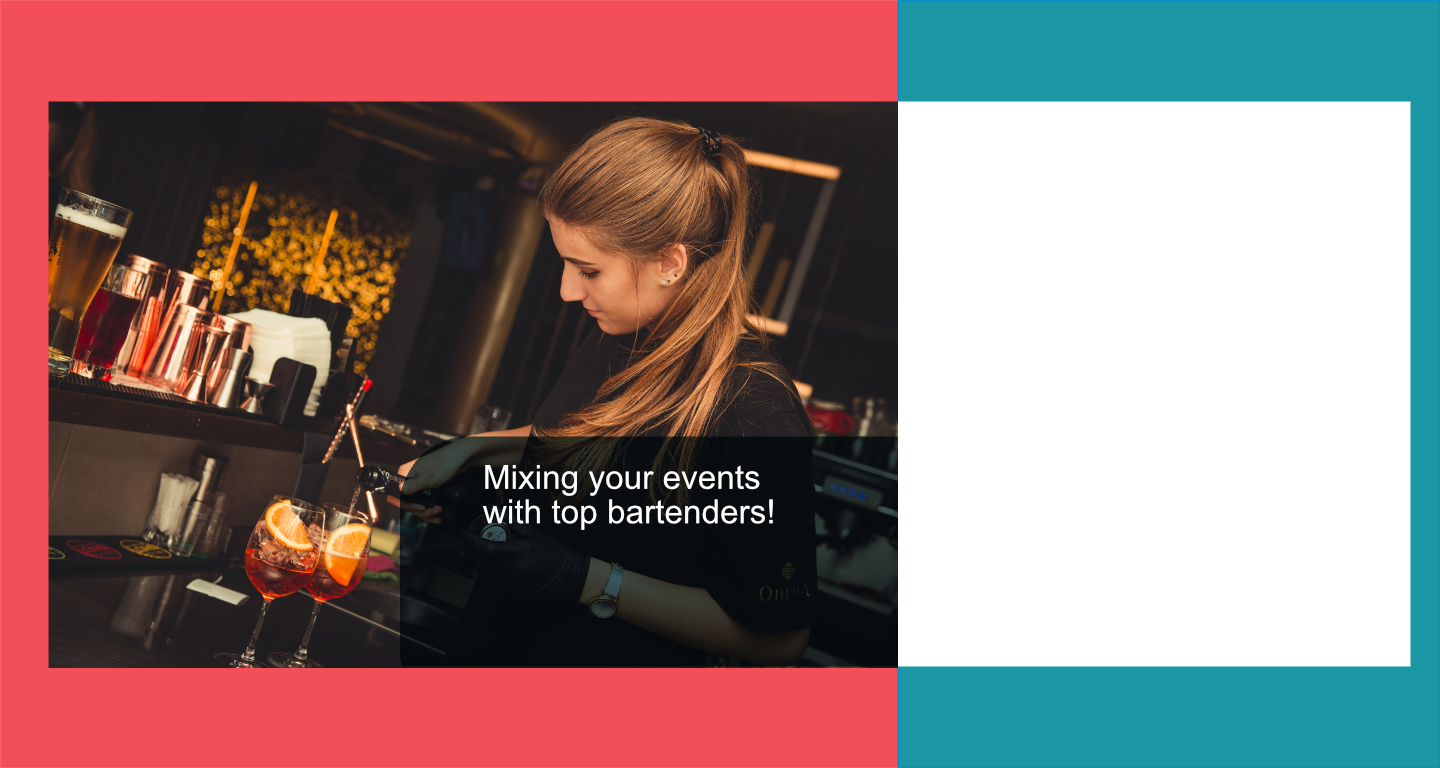
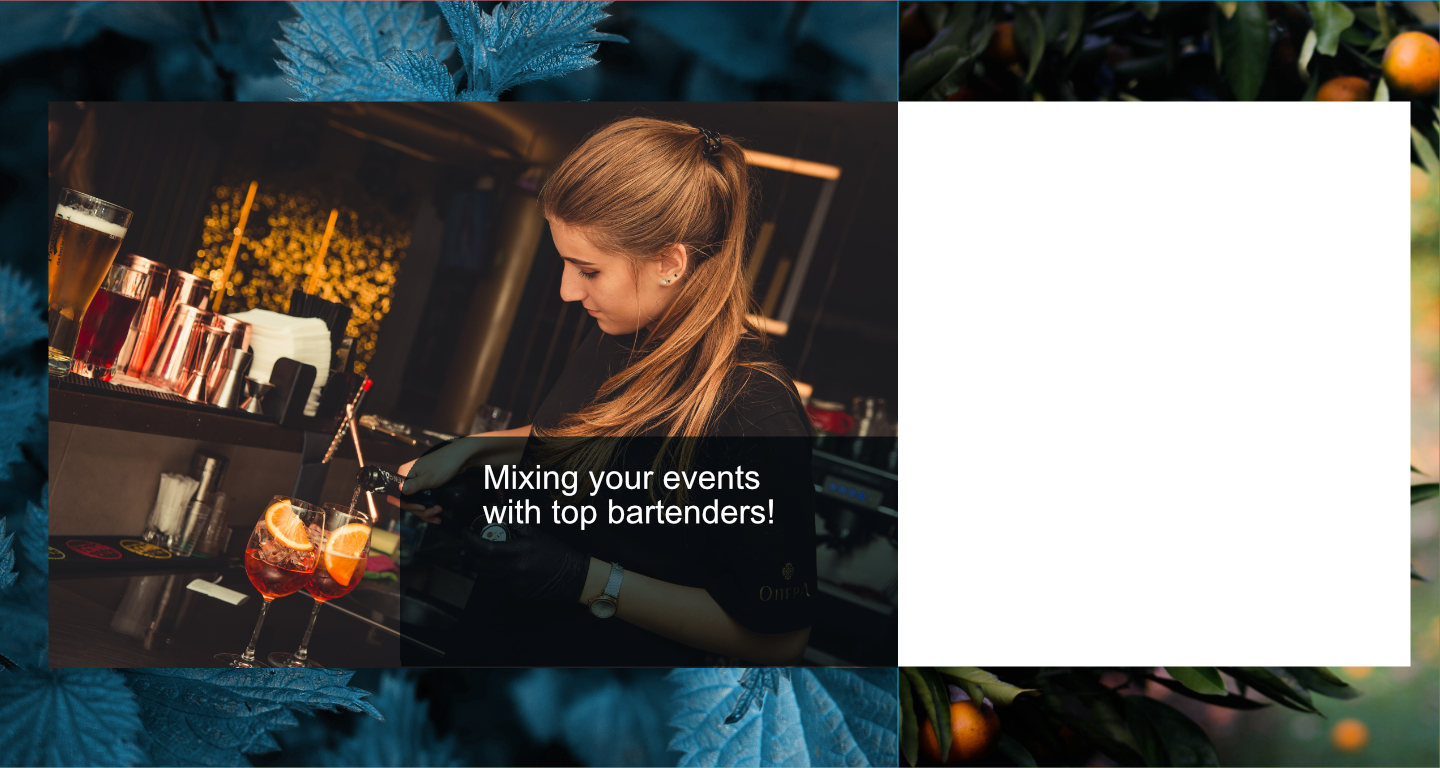
fixed filter

diff --git a/src/main/resources/templates/users/clientProfile.html b/src/main/resources/templates/users/clientProfile.html
@@ -10,26 +10,47 @@
 <div th:unless="${#authorization.expression('isAuthenticated()')}">
     <th:block th:replace="fragments/navbar :: top-nav" />
 </div>
+<div uk-grid="">
+    <div class="cpleftside uk-width-1-2">
+        <img class="profilePhoto" th:src="${user.photoUrl}"/>
+        <h3><span th:text="${user.name}"></span></h3>
+    </div>
+        <div class="cp2rightside uk-width-1-2">
+        </div>
+</div>
 
 
-<th:block>
-    <img class="profilePhoto" th:src="${user.photoUrl}"/>
-    <h3>Company: <span th:text="${user.company}"></span></h3>
-    <h3>Contact Name: <span th:text="${user.name}"></span></h3>
-    <h3>Contact Email: <span th:text="${user.email}"></span></h3>
-</th:block>
-<a th:href="@{'/client/profile/'+ ${#authentication.principal.id} +'/edit'}">Edit Profile</a>
-<th:block th:each="event : ${events}">
-    <p><span th:text="${event.title}"></span></p>
 
-    <p>Start time: <span th:text="${#calendars.format(event.startTime, 'MMMM dd, yyyy - hh:mm a')}"></span></p>
-    <p>End time: <span th:text="${#calendars.format(event.startTime, 'MMMM dd, yyyy - hh:mm a')}"></span></p>
-    <p>Event location: <span th:text="${event.address}"></span></p>
-    <p>Bartenders Needed: <span th:text="${event.bartendersNeeded}"></span></p>
-    <p>Description: <span th:text="${event.description}"></span></p>
-    <a th:href="@{/events/{id}/edit(id=${event.id})}" class="uk-button-primary">Edit</a>
-    <form th:action="@{/events/{id}/delete(id=${event.id})}" th:method="POST"><button class="uk-button-danger">Delete</button></form>
-</th:block>
+<div uk-grid="" style="border-color:lightblue">
+    <div class="cp2leftside uk-width-1-4">
+        <h3>Company: <span th:text="${user.company}"></span></h3>
+        <h3>Contact Email: <span th:text="${user.email}"></span></h3>
+        <a th:href="@{'/client/profile/'+ ${#authentication.principal.id} +'/edit'}">Edit Profile</a>
+    </div>
+
+    <div class="cp2center uk-width-1-2" style="background-color: darkblue;">
+        <h3>Created Events</h3>
+        <th:block th:each="event : ${events}">
+            <div class="uk-card uk-card-hover">
+            <p><span th:text="${event.title}"></span></p>
+
+            <p>Start time: <span th:text="${#calendars.format(event.startTime, 'MMMM dd, yyyy - hh:mm a')}"></span></p>
+            <p>End time: <span th:text="${#calendars.format(event.startTime, 'MMMM dd, yyyy - hh:mm a')}"></span></p>
+            <p>Event location: <span th:text="${event.address}"></span></p>
+            <p>Bartenders Needed: <span th:text="${event.bartendersNeeded}"></span></p>
+            <p>Description: <span th:text="${event.description}"></span></p>
+            <a th:href="@{/events/{id}/edit(id=${event.id})}" class="uk-button-primary">Edit</a>
+            <form th:action="@{/events/{id}/delete(id=${event.id})}" th:method="POST"><button class="uk-button-danger">Delete</button></form>
+            </div>
+            <br/>
+            <hr/>
+            <br/>
+        </th:block>
+    </div>
+    <div class="cp2rightside uk-width-1-4">
+    </div>
+</div>
+
 <th:block th:replace="fragments/footer :: myfooter"/>
 </body>
 </html>

diff --git a/src/main/resources/templates/events/eventRegistration.html b/src/main/resources/templates/events/eventRegistration.html
@@ -40,7 +40,44 @@
         <br/>
         <input type="submit" value="Create Event" />
     </form>
+<!--<form>-->
+<!--    <fieldset class="uk-fieldset">-->
 
+<!--        <legend class="uk-legend">Create an Event</legend>-->
+
+<!--        <div class="uk-margin">-->
+<!--        <label for="title">Event Title</label>-->
+<!--        <input type="text" id="title" th:field="*{title}" />-->
+<!--        </div>-->
+
+<!--        <div class="uk-margin">-->
+<!--        <label for="date">Date</label>-->
+<!--        <input type="date" id="date" th:field="*{date}" />-->
+<!--        </div>-->
+
+<!--        <div class="uk-margin">-->
+<!--        <label for="start-time">Start Time</label>-->
+<!--        <input type="time" id="start-time" th:field="*{startTime}" />-->
+<!--        </div>-->
+
+<!--        <div class="uk-margin">-->
+<!--        <label for="endTime">End Time</label>-->
+<!--        <input type="time" id="endTime" th:field="*{endTime}" />-->
+<!--        </div>-->
+
+<!--        <div class="uk-margin">-->
+<!--            <label for="bartendersNeeded">Number of Bartenders Needed</label>-->
+<!--            <input type="number" min="1" max="10" id="bartendersNeeded" th:field="*{bartendersNeeded}" />-->
+<!--        </div>-->
+
+<!--        <div class="uk-margin">-->
+<!--            <label for="description">Event Description</label>-->
+<!--            <input type="text" id="description" th:field="*{description}" />-->
+<!--        </div>-->
+
+
+<!--    </fieldset>-->
+<!--</form>-->
 <script src='https://api.tiles.mapbox.com/mapbox-gl-js/v1.1.0/mapbox-gl.js'></script>
 <script src='https://api.mapbox.com/mapbox-gl-js/plugins/mapbox-gl-geocoder/v4.4.1/mapbox-gl-geocoder.min.js'></script>
 <script src="https://code.jquery.com/jquery-3.4.1.slim.js" integrity="sha256-BTlTdQO9/fascB1drekrDVkaKd9PkwBymMlHOiG+qLI=" crossorigin="anonymous"></script>

diff --git a/src/main/resources/templates/events/index.html b/src/main/resources/templates/events/index.html
@@ -15,12 +15,13 @@
 <div uk-filter="target: .js-filter">
 
     <ul class="uk-subnav uk-subnav-pill">
-        <li class="uk-active" uk-filter-control="sort: data-number"><a href="#">Ascending</a></li>
-        <li uk-filter-control="sort: data-number; order: desc"><a href="#">Descending</a></li>
+        <li class="uk-active" uk-filter-control="sort: data-date"><a href="#">Ascending</a></li>
+        <li uk-filter-control="sort: data-date; order: desc"><a href="#">Descending</a></li>
     </ul>
 
-    <ul class="js-filter uk-child-width-1-2 uk-child-width-1-3@m uk-text-center" uk-grid="" th:each="event : ${events}">
-        <li data-date="${#calendars.format(event.startTime, 'MM dd, yyyy - hh:mm a')}">
+    <ul class="js-filter uk-child-width-1-2 uk-child-width-1-3@m uk-text-center" uk-grid="">
+        <th:block th:each="event : ${events}">
+        <li data-th-attr="data-date=${#calendars.format(event.date, 'MM-dd-yyyy')}">
             <div class="uk-card uk-card-default uk-card-body">
                 <p><span th:text="${#calendars.format(event.date, 'MM / dd')}"></span></p>
                 <p><span th:text="${#calendars.format(event.startTime, 'h:mm a')}"></span></p>
@@ -29,11 +30,13 @@
                 <button th:if="${#authentication.principal.isClient} == ${'1'}" th:type="submit" id="gigRequest">Request This Gig</button>
             </div>
         </li>
+        </th:block>
     </ul>
 </div>
 
 
 
 <th:block th:replace="fragments/footer :: myfooter"/>
+
 </body>
 </html>

diff --git a/src/main/resources/templates/fragments/navbar.html b/src/main/resources/templates/fragments/navbar.html
@@ -4,9 +4,7 @@
 
 <nav class="uk-navbar-container uk-margin main-nav"  th:fragment="top-nav" uk-navbar="boundary-align: true; align: center;">
     <div class="uk-navbar-left">
-
         <a style="color: white;" class="uk-navbar-item uk-logo" href="/">Drink Hustle</a>
-
         <ul class="uk-navbar-nav">
             <li><a href="/about">About</a></li>
             <li><a href="/events">Events</a></li>
